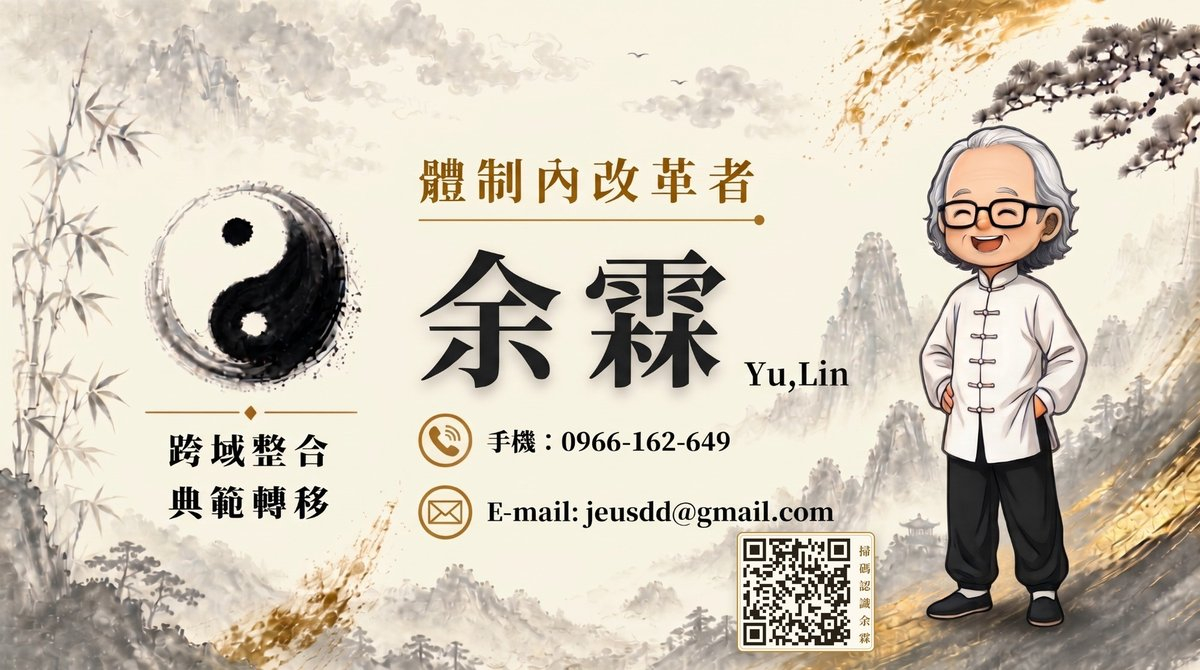
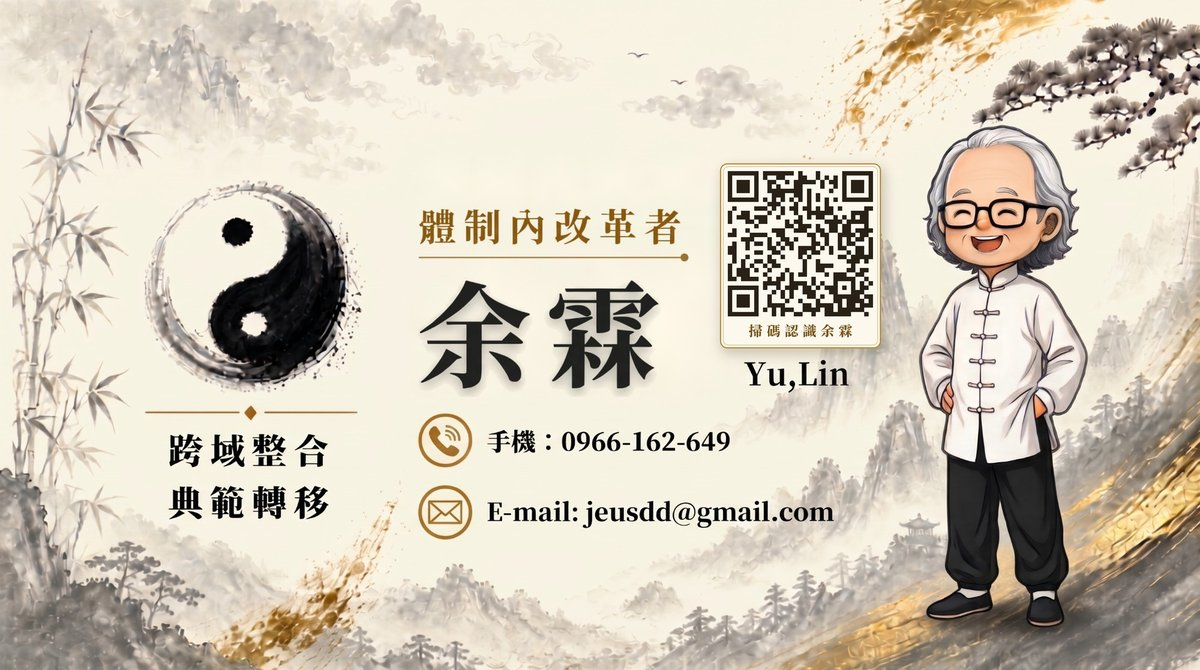
筆刷加弧度、手機完整呈現；刪向下；手機不斷行；標籤等寬；名片QR放大移至余霖右側；新增下載名片

Changed region(s): [[0.3392, 0.2388, 0.74, 0.597], [0.6167, 0.7761, 0.74, 0.9851]]

diff --git a/index.html b/index.html
@@ -33,12 +33,14 @@ body{
 }
 .wrap{max-width:1080px;margin:0 auto;padding:0 clamp(18px,5vw,56px)}
 /* 重點字：粗體＋淡金底線 */
+.nw{white-space:nowrap}
 .kw{background:linear-gradient(transparent 58%,rgba(226,190,110,.6) 58%,rgba(226,190,110,.6) 94%,transparent 94%);font-weight:900;padding:0 .12em;color:var(--ink)}
 
 /* ---------- Hero ---------- */
 .hero{position:relative;min-height:100svh;display:flex;align-items:center;padding:72px 0 64px;overflow:hidden}
 /* 主筆刷：從「典範轉移」右側起筆，由左下往右上一氣刷出 */
 .mt{position:relative;display:inline-flex;align-items:center}
+[data-brush] svg{overflow:visible}
 .mt .bm,.mt .bs,.mt .bs2{position:absolute;z-index:-1;pointer-events:none;opacity:0}
 .mt .bm{left:calc(100% + 6px);bottom:-1.6em;width:min(900px,66vw);transform:rotate(-27deg);transform-origin:0 70%;animation:sweep 1.05s .15s cubic-bezier(.7,0,.2,1) forwards}
 .mt .bs{left:calc(100% + 70px);bottom:-1.2em;width:min(620px,46vw);transform:rotate(-33deg);transform-origin:0 50%;animation:sweep .75s .8s cubic-bezier(.7,0,.2,1) forwards}
@@ -61,7 +63,7 @@ body{
 .tagline{margin-top:20px;color:var(--ink-2);font-size:clamp(17px,1.9vw,19px);letter-spacing:.08em;line-height:2;font-weight:700}
 .tagline span{white-space:nowrap}
 .awards{margin-top:16px;display:flex;flex-wrap:wrap;gap:10px}
-.awards span{display:inline-flex;align-items:center;gap:8px;padding:7px 16px;border:2px solid var(--gold);background:rgba(255,250,236,.9);font-weight:900;font-size:clamp(17px,1.9vw,19px);letter-spacing:.05em;color:var(--ink)}
+.awards span{white-space:nowrap;display:inline-flex;align-items:center;gap:8px;padding:7px 16px;border:2px solid var(--gold);background:rgba(255,250,236,.9);font-weight:900;font-size:clamp(17px,1.9vw,19px);letter-spacing:.05em;color:var(--ink)}
 .awards span::before{content:"";width:10px;height:10px;background:linear-gradient(135deg,#e9cc7e,#a77a2a);transform:rotate(45deg);flex:none}
 .hero-actions{margin-top:34px;display:flex;gap:14px;flex-wrap:wrap}
 .btn{font-family:inherit;font-size:18px;font-weight:900;letter-spacing:.16em;padding:13px 28px;border-radius:3px;cursor:pointer;text-decoration:none;
@@ -70,8 +72,6 @@ body{
 .btn.solid{background-color:#7a5518;color:#fff;border-color:#7a5518;box-shadow:0 6px 18px rgba(110,75,20,.25);
   background-image:linear-gradient(120deg,rgba(255,255,255,0),rgba(255,230,160,.25) 45%,rgba(255,255,255,0))}
 .btn.solid:hover{filter:brightness(1.12)}
-.scroll-cue{position:absolute;left:50%;bottom:22px;transform:translateX(-50%);color:var(--ink-2);font-size:15px;letter-spacing:.4em;z-index:2}
-.scroll-cue::after{content:"";display:block;width:2px;height:34px;margin:8px auto 0;background:linear-gradient(var(--gold),transparent)}
 
 /* ---------- Section nav ---------- */
 .secnav{position:sticky;top:0;z-index:20;background:rgba(245,239,226,.96);backdrop-filter:blur(10px);-webkit-backdrop-filter:blur(10px);border-bottom:1px solid var(--line)}
@@ -114,6 +114,7 @@ section.block{padding:clamp(64px,10vw,110px) 0 0}
 .badge svg{position:absolute;inset:0;width:100%;height:100%}
 .badge i{position:absolute;left:20px;top:50%;transform:translateY(-52%);font-style:normal;font-weight:900;font-size:30px;color:#1e160a;letter-spacing:.02em;text-shadow:0 0 6px rgba(255,245,215,.95)}
 .honours .h-t{font-size:clamp(20px,2.3vw,23px);font-weight:900;letter-spacing:.04em;line-height:1.5}
+.honours .h-t .by{margin-right:.8em}
 .honours .h-y{color:var(--ink-2);font-size:18px;font-weight:700;letter-spacing:.04em;white-space:nowrap}
 
 /* timeline：分期＋左右交錯 */
@@ -121,7 +122,6 @@ section.block{padding:clamp(64px,10vw,110px) 0 0}
 .sub::after{content:"";flex:1;height:1px;background:var(--line)}
 .edu2{display:grid;grid-template-columns:1fr 1fr;gap:18px}
 .ec{position:relative;padding:22px 24px 20px 24px;background:rgba(255,252,244,.9);border:1px solid var(--line);border-left:5px solid var(--gold)}
-.ec .deg{position:absolute;right:16px;top:14px;font-size:15px;font-weight:900;color:#fff;background:#7a5518;padding:2px 12px;border-radius:14px;letter-spacing:.2em}
 .ec b{display:block;font-size:23px;font-weight:900;letter-spacing:.04em}
 .ec span{font-size:18px;color:var(--ink-2)}
 .tl2{position:relative;padding:6px 0 10px}
@@ -155,8 +155,8 @@ section.block{padding:clamp(64px,10vw,110px) 0 0}
 .ti.key.r::after{left:-55px}
 
 /* domains */
-.domain-tabs{display:flex;flex-wrap:wrap;gap:10px;margin-bottom:28px}
-.domain-tabs button{font-family:inherit;font-size:18px;font-weight:700;letter-spacing:.05em;padding:9px 18px;border:2px solid var(--line);background:rgba(255,252,244,.9);color:var(--ink);border-radius:24px;cursor:pointer;transition:.2s}
+.domain-tabs{display:grid;grid-template-columns:repeat(4,1fr);gap:10px;margin-bottom:28px}
+.domain-tabs button{white-space:nowrap;text-align:center;width:100%;font-family:inherit;font-size:18px;font-weight:700;letter-spacing:.05em;padding:9px 18px;border:2px solid var(--line);background:rgba(255,252,244,.9);color:var(--ink);border-radius:24px;cursor:pointer;transition:.2s}
 .domain-tabs button.on{border-color:#7a5518;background:#7a5518;color:#fff}
 .domain-tabs button em{font-style:normal;font-size:15px;opacity:.85;margin-left:5px}
 .domain{display:none;animation:fade .5s ease}
@@ -169,6 +169,7 @@ section.block{padding:clamp(64px,10vw,110px) 0 0}
 .items li{display:grid;grid-template-columns:1fr auto;gap:6px 18px;align-items:baseline;padding:16px 2px;border-bottom:1px solid var(--line)}
 .items .it{font-size:20px;font-weight:500;letter-spacing:.02em;line-height:1.65}
 .items .it small{display:inline-block;color:var(--gold-deep);font-size:19px;margin-left:10px;letter-spacing:.05em;font-weight:900}
+.items .rm{display:none}
 .items .iy{color:var(--ink-2);font-size:17px;font-weight:700;letter-spacing:.03em;white-space:nowrap;font-variant-numeric:tabular-nums}
 
 /* footer：名片圖 */
@@ -176,7 +177,7 @@ footer{margin-top:clamp(80px,12vw,130px);padding:clamp(56px,8vw,90px) 0 64px;bor
 .namecard{margin:0 auto;max-width:960px;box-shadow:0 18px 50px rgba(90,62,15,.22),0 2px 6px rgba(90,62,15,.12);border-radius:6px;overflow:hidden;background:#f3ecdf}
 .namecard img{display:block;width:100%;height:auto}
 .foot-actions{margin:32px auto 0;display:flex;gap:16px;flex-wrap:wrap;justify-content:center}
-.foot-actions .btn{min-width:200px;text-align:center}
+.foot-actions .btn{min-width:200px;text-align:center;white-space:nowrap}
 .toast{position:fixed;left:50%;bottom:28px;transform:translate(-50%,20px);background:var(--ink);color:var(--paper);padding:12px 24px;font-size:18px;letter-spacing:.1em;opacity:0;transition:.3s;pointer-events:none;z-index:50;border-radius:3px}
 .toast.show{opacity:1;transform:translate(-50%,0)}
 
@@ -185,33 +186,46 @@ footer{margin-top:clamp(80px,12vw,130px);padding:clamp(56px,8vw,90px) 0 64px;bor
   .hero{align-items:flex-start;padding-top:14svh}
   .current{grid-template-columns:1fr}
   .edu2{grid-template-columns:1fr}
-  .tl2::before{left:18px}
+  .tl2::before{left:14px}
   .era{text-align:left;margin-left:-2px}
-  .ti,.ti.l,.ti.r{width:auto;margin-left:46px;margin-right:0;text-align:left}
-  .ti.l::before,.ti.r::before{left:-28px;right:auto;width:28px;background:linear-gradient(90deg,var(--gold),rgba(176,132,51,.4))}
-  .ti.l::after,.ti.r::after{left:-36px;right:auto}
-  .ti.key.l::after,.ti.key.r::after{left:-39px;right:auto}
+  .ti,.ti.l,.ti.r{width:auto;margin-left:38px;margin-right:0;text-align:left}
+  .ti.l::before,.ti.r::before{left:-22px;right:auto;width:22px;background:linear-gradient(90deg,var(--gold),rgba(176,132,51,.4))}
+  .ti.l::after,.ti.r::after{left:-31px;right:auto}
+  .ti.key.l::after,.ti.key.r::after{left:-34px;right:auto}
   .stats{grid-template-columns:repeat(2,1fr)}
   .stat:nth-child(3)::before{display:none}
   .stat:nth-child(n+3){border-top:1px solid var(--line)}
 }
 @media (max-width:560px){
   .hero{align-items:flex-start;padding-top:12svh}
-  .mt .bm{left:38%;bottom:-.8em;width:96vw;transform:rotate(-34deg);opacity:.9}
-  .mt .bs{left:60%;bottom:-.4em;width:60vw;transform:rotate(-40deg)}
-  .mt .bs2{display:none}
+  .mt .bm{left:4%;bottom:-1.6em;width:94vw;transform:rotate(-31deg)}
+  .mt .bs{left:34%;bottom:-.9em;width:56vw;transform:rotate(-37deg)}
+  .mt .bs2{left:44%;bottom:-2.1em;width:44vw;transform:rotate(-22deg)}
   .eyebrow{letter-spacing:.45em}
-  .scroll-cue{display:none}
   .title{letter-spacing:.2em}
-  .honours li{grid-template-columns:96px 1fr;gap:4px 10px;padding:14px 0}
-  .honours .h-y{grid-column:2}
-  .badge{width:92px;height:46px}
-  .badge i{font-size:25px;left:14px}
+  .honours li{grid-template-columns:76px 1fr;gap:0 10px;padding:14px 0}
+  .honours .h-y{grid-column:2;font-size:16px}
+  .honours .h-t .by{display:block;font-size:15px;font-weight:700;color:var(--ink-2);margin:0}
+  .honours .h-t .kw{font-size:clamp(17px,5.1vw,21px)}
+  .badge{width:74px;height:40px}
+  .badge i{font-size:21px;left:11px}
+  .ti .t{font-size:18px}
+  .ti .box{padding:12px 12px 14px}
+  .awards span{font-size:17px;padding:6px 12px}
+  .ec b{font-size:21px}
   .secnav ul{gap:0;padding:8px 8px}
   .secnav a{padding:7px 10px;font-size:16px;letter-spacing:.04em}
   .items li{grid-template-columns:1fr;gap:2px}
-  .foot-actions .btn{flex:1;min-width:0}
-  .items .it{font-size:19px}
+  .domain-tabs{grid-template-columns:repeat(2,1fr);gap:8px}
+  .domain-tabs button{font-size:16px;padding:9px 4px;letter-spacing:0}
+  .domain-tabs button em{font-size:14px;margin-left:3px}
+  .foot-actions{gap:8px}
+  .foot-actions .btn{flex:1;min-width:0;padding:12px 4px;font-size:16px;letter-spacing:.04em}
+  .items .it{font-size:18px}
+  .items .rd{display:none!important}
+  .items .rm{display:inline;color:var(--gold-deep);font-size:17px;font-weight:900;margin-right:12px}
+  .ti .t,.ti.key .t{font-size:16.5px;letter-spacing:0}
+  .ti.key .t{font-weight:900}
 }
 @media (prefers-reduced-motion:reduce){
   *{animation:none!important;transition:none!important}
@@ -219,7 +233,7 @@ footer{margin-top:clamp(80px,12vw,130px);padding:clamp(56px,8vw,90px) 0 64px;bor
   .reveal{opacity:1;transform:none}
 }
 @media print{
-  .secnav,.hero-actions,.foot-actions,.scroll-cue{display:none}
+  .secnav,.hero-actions,.foot-actions{display:none}
   .hero{min-height:auto}
   .domain{display:block!important;page-break-inside:avoid;margin-bottom:24px}
   .domain-tabs{display:none}
@@ -242,7 +256,6 @@ footer{margin-top:clamp(80px,12vw,130px);padding:clamp(56px,8vw,90px) 0 64px;bor
       <a class="btn" href="#contact">聯絡方式</a>
     </div>
   </div>
-  <div class="scroll-cue">向下</div>
 </header>
 
 <nav class="secnav" aria-label="章節">
@@ -278,8 +291,8 @@ footer{margin-top:clamp(80px,12vw,130px);padding:clamp(56px,8vw,90px) 0 64px;bor
     <div class="head"><h2>學歷與經歷</h2><small>EDUCATION &amp; CAREER</small></div>
     <div class="sub">學歷</div>
     <div class="edu2">
-      <div class="ec"><span class="deg">碩士</span><b>國立臺灣師範大學</b><span>教育研究所（74 級）</span></div>
-      <div class="ec"><span class="deg">學士</span><b>國立高雄師範大學</b><span>數學系（60 級）</span></div>
+      <div class="ec"><b>國立臺灣師範大學</b><span>教育研究所 碩士（74 級）</span></div>
+      <div class="ec"><b>國立高雄師範大學</b><span>數學系 學士（60 級）</span></div>
     </div>
     <div class="sub" style="margin-top:48px">經歷</div>
     <div class="tl2" id="timeline"></div>
@@ -300,6 +313,7 @@ footer{margin-top:clamp(80px,12vw,130px);padding:clamp(56px,8vw,90px) 0 64px;bor
     <div class="foot-actions">
       <button class="btn solid" type="button" id="saveContact">存入通訊錄</button>
       <button class="btn" type="button" data-share>分享名片</button>
+      <a class="btn" href="namecard.jpg" download="余霖電子名片.jpg">下載名片</a>
     </div>
   </div>
 </footer>
@@ -326,11 +340,11 @@ const ERAS = [
     {y:"98～104 年", t:"臺北市立大學 兼任講師"},
   ]},
   {n:"貳", name:"教育出版", span:"民國 95～100 年", items:[
-    {y:"95～100 年", t:"翰林出版事業研發處 <b>執行長</b>"},
+    {y:"95～100 年", t:"翰林出版事業研發處 執行長"},
   ]},
-  {n:"參", name:"兩任中學校長", span:"民國 76～95 年", items:[
-    {y:"85～95 年", t:"臺北市立大直高中 <b>校長</b>", key:1},
-    {y:"76～85 年", t:"臺北市立天母國中 <b>校長</b>", key:1},
+  {n:"參", name:"中學校長", span:"民國 76～95 年", items:[
+    {y:"85～95 年", t:"臺北市立大直高中 校長"},
+    {y:"76～85 年", t:"臺北市立天母國中 校長"},
   ]},
   {n:"肆", name:"教學與輔導", span:"民國 74～95 年", items:[
     {y:"83～95 年", t:"國立臺北教育大學 兼任講師"},
@@ -342,11 +356,11 @@ const ERAS = [
 const DOMAINS = [
   {k:"教育改革與政策", d:"參與中央與臺北市教育政策的規劃、審議與推動", items:[
     ["行政院 教育改革推動委員會","委員","92～94 年"],
-    ["教育部 12 年國教專案辦公室","協作委員","106～115 年"],
+    ["教育部 12年國教專案辦公室","協作委員","106～115 年"],
     ["教育部 學習領導與學習共同體計畫","委員","101～104 年"],
     ["教育部 分組合作學習推動委員會","委員","101～103 年"],
     ["教育部 全國教育發展會議 教育體制之規劃工作小組","",'92 年'],
-    ["教育部 2001 年教育改革之檢討與改進會議工作小組","委員","90 年"],
+    ["教育部 2001年教育改革之檢討與改進會議工作小組","委員","90 年"],
     ["教育部 國家教育研究院籌備小組","委員","93～95 年"],
     ["教育部 師資培育審議委員","","92～94 年"],
     ["教育部 高級中學法施行細則研修","委員","88～89 年"],
@@ -433,11 +447,11 @@ const DOMAINS = [
 function rand(seed){ let s=seed*9301+49297; return ()=>{ s=(s*9301+49297)%233280; return s/233280; }; }
 function brushPath(w,h,r,thin,sweep){
   // 左粗右尖、略帶弧度的刷痕外形
-  const top=[], bot=[], n=26, mid=h*0.5, amp=thin?h*0.28:h*0.42;
+  const top=[], bot=[], n=26, mid=h*0.5, amp=thin?h*0.28:(sweep?h*0.36:h*0.42);
   for(let i=0;i<=n;i++){
     const t=i/n, x=w*0.04+t*w*0.92;
     const taper = sweep ? (t<0.42 ? 0.08+0.92*Math.pow(t/0.42,0.75) : 1-Math.pow((t-0.42)/0.58,1.25)*0.95) : thin ? Math.sin(Math.PI*Math.min(1,t*1.15))*0.9+0.1 : (t<0.12? 0.55+t*3.5 : 1-Math.pow((t-0.12)/0.88,2.2)*0.92);
-    const bend = sweep ? Math.sin(t*Math.PI*1.6)*h*0.07 - t*h*0.06 : -Math.sin(t*Math.PI*0.9)*h*0.06 - t*h*0.12;
+    const bend = sweep ? -Math.sin(t*Math.PI)*h*0.16 + t*h*0.05 : thin ? -Math.sin(t*Math.PI)*h*0.24 : -Math.sin(t*Math.PI*0.9)*h*0.06 - t*h*0.12;
     top.push([x, mid+bend-amp*taper*(0.9+r()*0.18)]);
     bot.push([x, mid+bend+amp*taper*(0.75+r()*0.2)]);
   }
@@ -480,16 +494,17 @@ function makeBrush(el){
 }
 
 /* ================= 渲染 ================= */
+const seg=t=>t.split(' ').map(x=>`<span class="nw">${x}</span>`).join(' ');
 const $=s=>document.querySelector(s);
 $('#currentList').innerHTML=CURRENT.map(c=>`<div class="cur"><div class="org">${c.org}</div><div class="role">${c.role}</div><div class="yr">${c.y}</div></div>`).join('');
-$('#honourList').innerHTML=HONOURS.map((h,i)=>`<li><div class="badge"><div data-brush="badge" data-w="240" data-h="110" data-seed="${40+i*7}" style="position:absolute;inset:0"></div><i>0${i+1}</i></div><div class="h-t">${h.by}　<span class="kw">${h.t}</span></div><div class="h-y">${h.y}</div></li>`).join('');
+$('#honourList').innerHTML=HONOURS.map((h,i)=>`<li><div class="badge"><div data-brush="badge" data-w="240" data-h="110" data-seed="${40+i*7}" style="position:absolute;inset:0"></div><i>0${i+1}</i></div><div class="h-t"><span class="by nw">${h.by}</span><span class="kw nw">${h.t}</span></div><div class="h-y">${h.y}</div></li>`).join('');
 let side=0;
 $('#timeline').innerHTML=ERAS.map(e=>`<div class="era"><div class="medal"><b>${e.n}</b><span>${e.name}<em>${e.span}</em></span></div></div>`+
-  e.items.map(t=>`<div class="ti ${(side++%2)?'r':'l'} ${t.key?'key':''}"><div class="box"><div class="yr">${t.y}</div><div class="t">${t.t}</div></div></div>`).join('')).join('');
+  e.items.map(t=>`<div class="ti ${(side++%2)?'r':'l'} ${t.key?'key':''}"><div class="box"><div class="yr">${t.y}</div><div class="t">${seg(t.t)}</div></div></div>`).join('')).join('');
 $('#domainTabs').innerHTML=DOMAINS.map((d,i)=>`<button role="tab" type="button" class="${i?'':'on'}" data-i="${i}">${d.k}<em>${d.items.length}</em></button>`).join('');
 $('#domainPanels').innerHTML=DOMAINS.map((d,i)=>`<div class="domain ${i?'':'on'}" role="tabpanel">
   <div class="domain-intro"><div class="big">${d.k}</div></div><p class="domain-desc">${d.d}</p>
-  <ul class="items">${d.items.map(([t,r,y])=>`<li><div class="it">${t}${r?`<small>${r}</small>`:''}</div><div class="iy">${y}</div></li>`).join('')}</ul></div>`).join('');
+  <ul class="items">${d.items.map(([t,r,y])=>`<li><div class="it">${seg(t)}${r?`<small class="nw rd">${r}</small>`:''}</div><div class="iy">${r?`<small class="rm">${r}</small>`:''}${y}</div></li>`).join('')}</ul></div>`).join('');
 $('#domainTabs').addEventListener('click',e=>{
   const b=e.target.closest('button'); if(!b) return;
   document.querySelectorAll('#domainTabs button').forEach(x=>x.classList.toggle('on',x===b));
